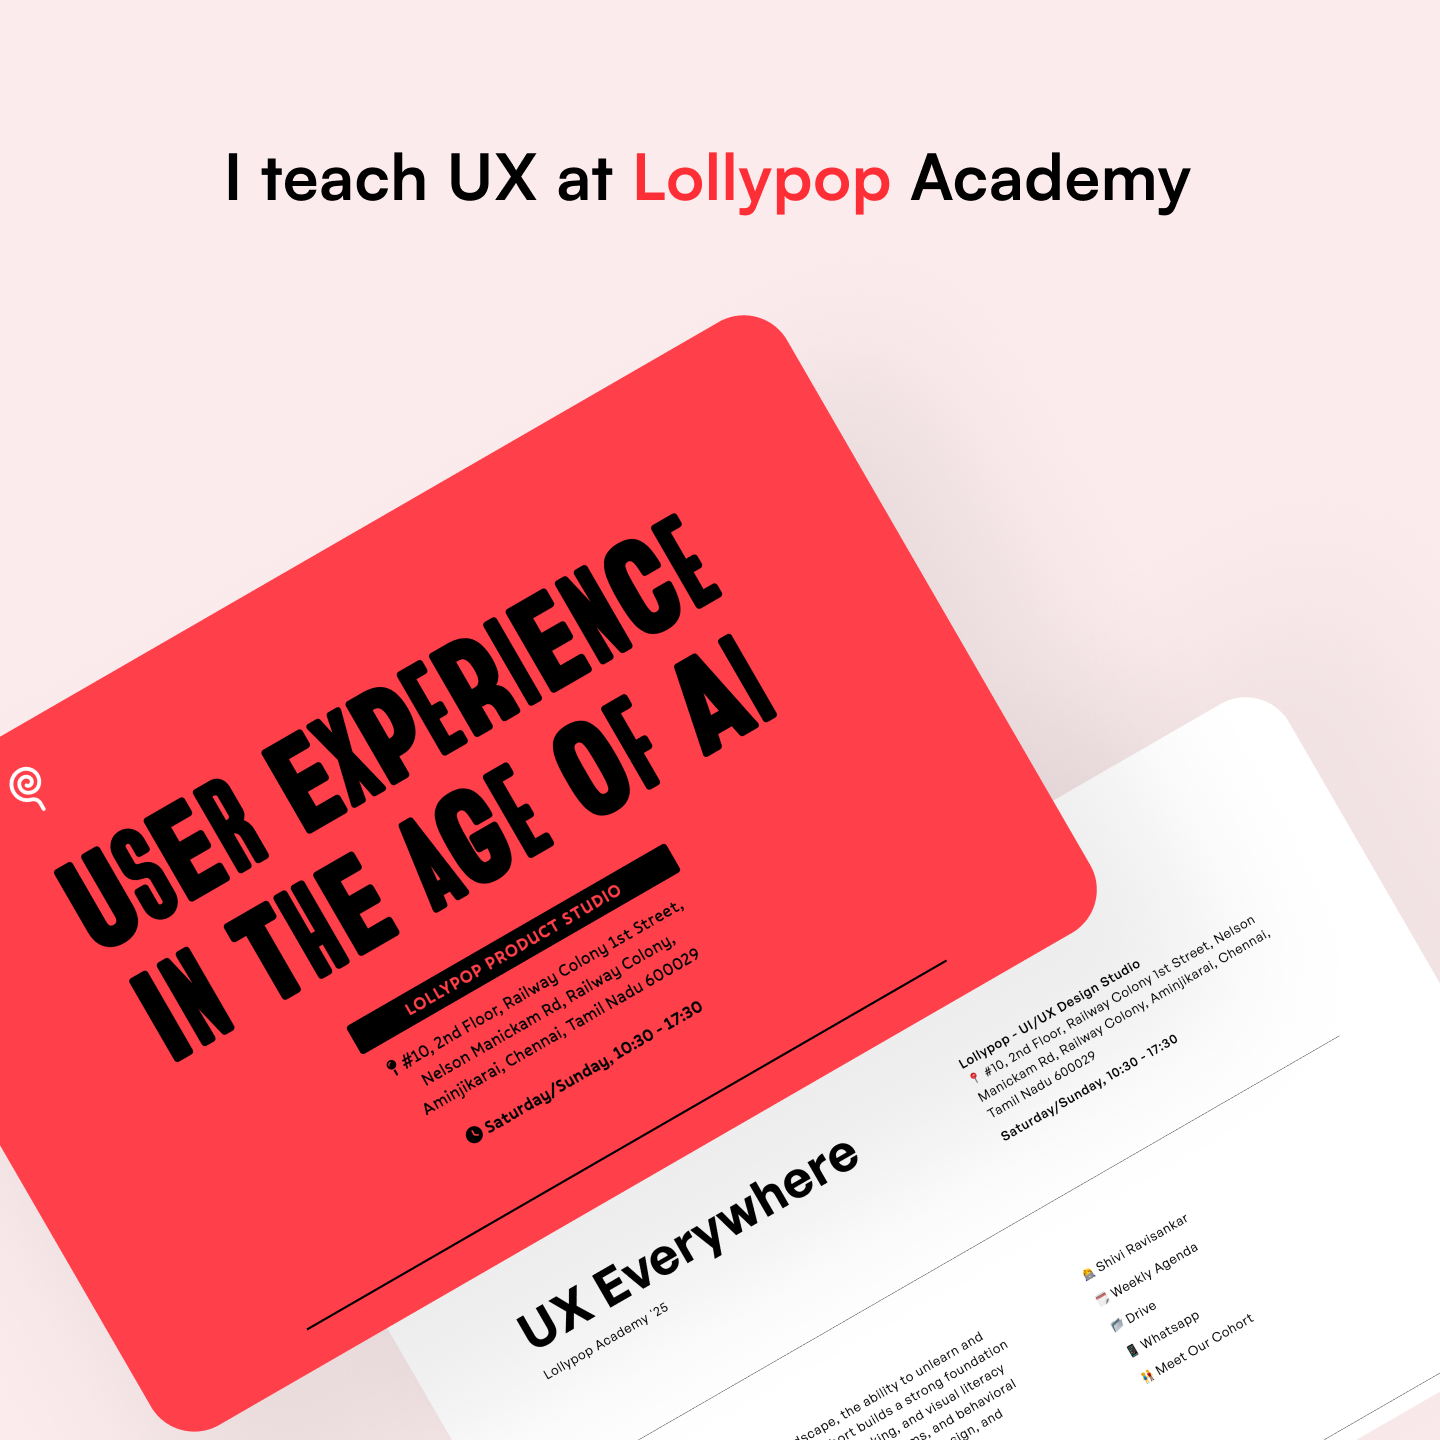
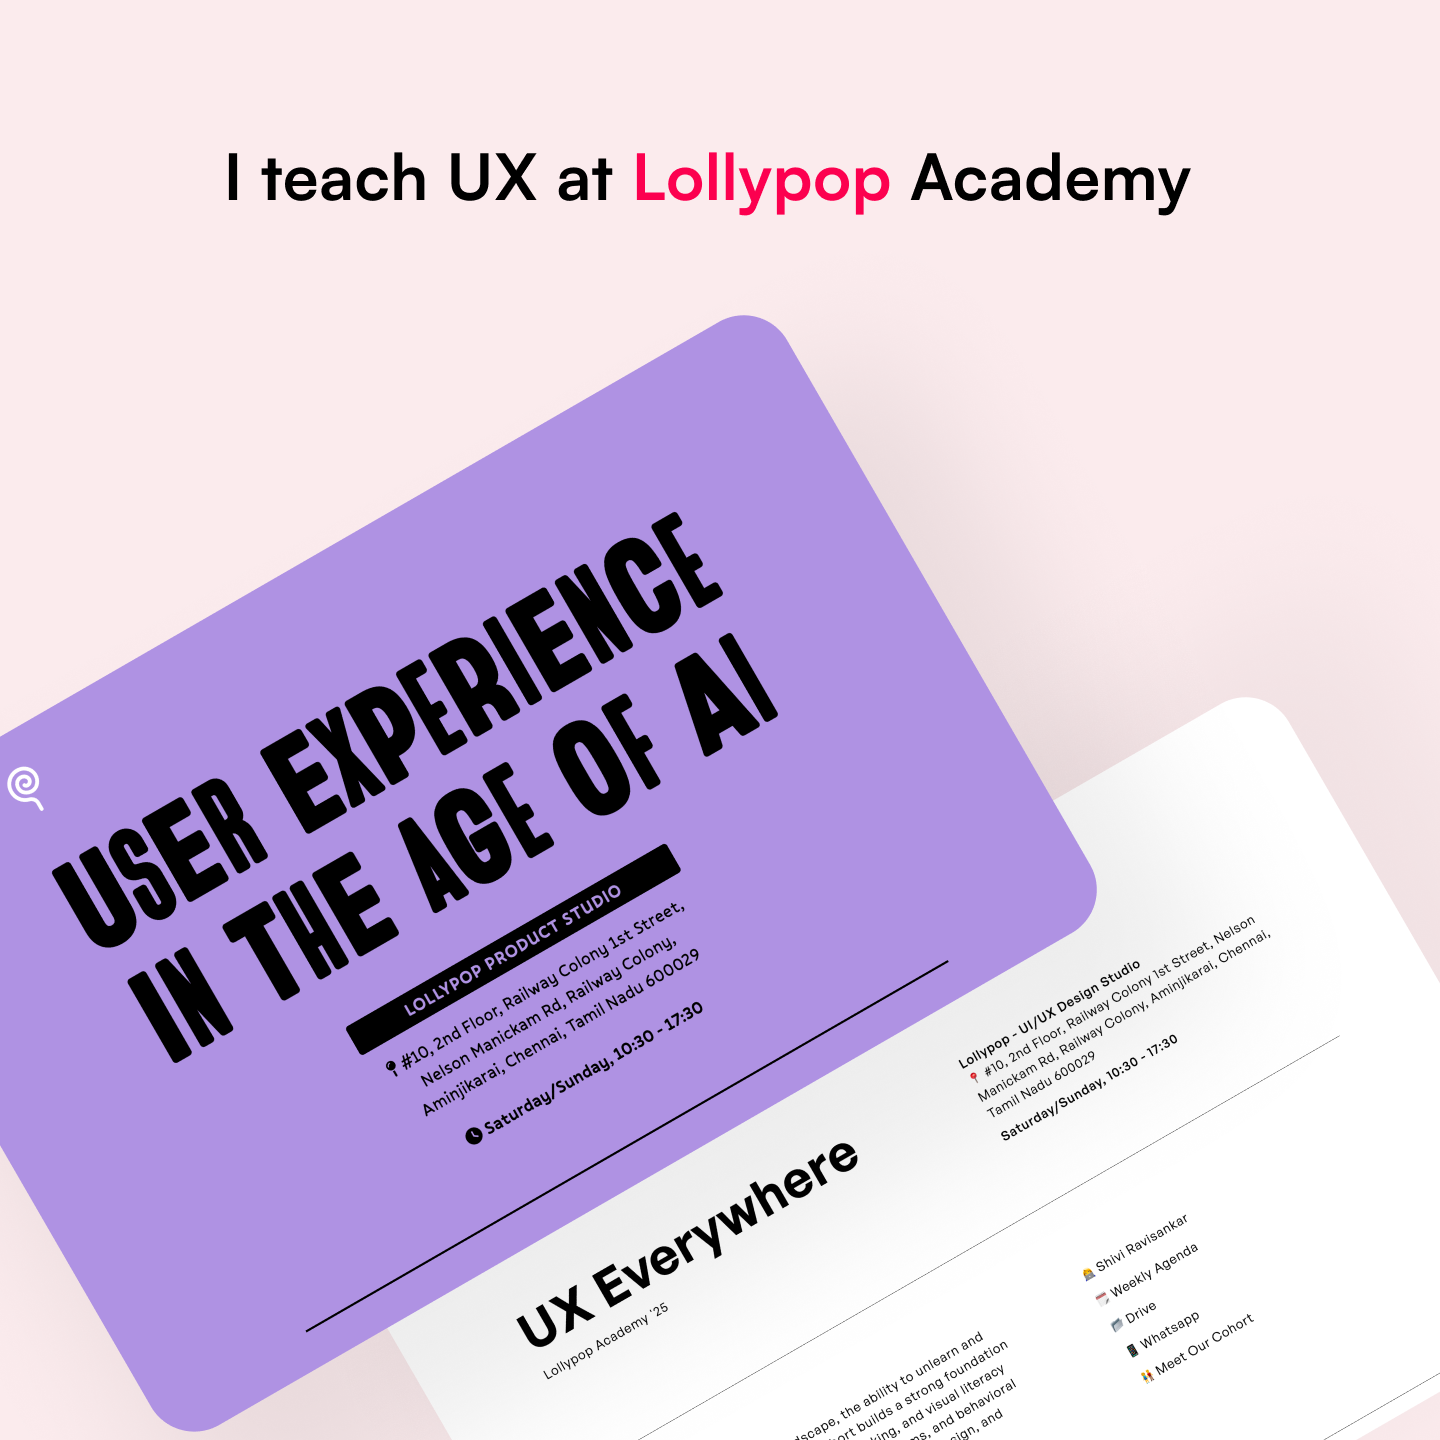
image switch

diff --git a/assets/style.css b/assets/style.css
@@ -94,7 +94,7 @@ min-height: 40px;
 .grid-item1 
 {
 position: relative;
-border-radius: 16px;
+border-radius: 8px;
 aspect-ratio: 1/1;
 overflow: hidden;
 background-color: #FFFFFF;
@@ -107,7 +107,7 @@ transition: transform 0.2s cubic-bezier(0.32, 0, 0.67, 0), box-shadow 0.2s ease;
 width: 100%;
 height: 100%;
 object-fit: cover;
-border-radius: 16px;
+border-radius: 8px;
 }
 
 .two img
